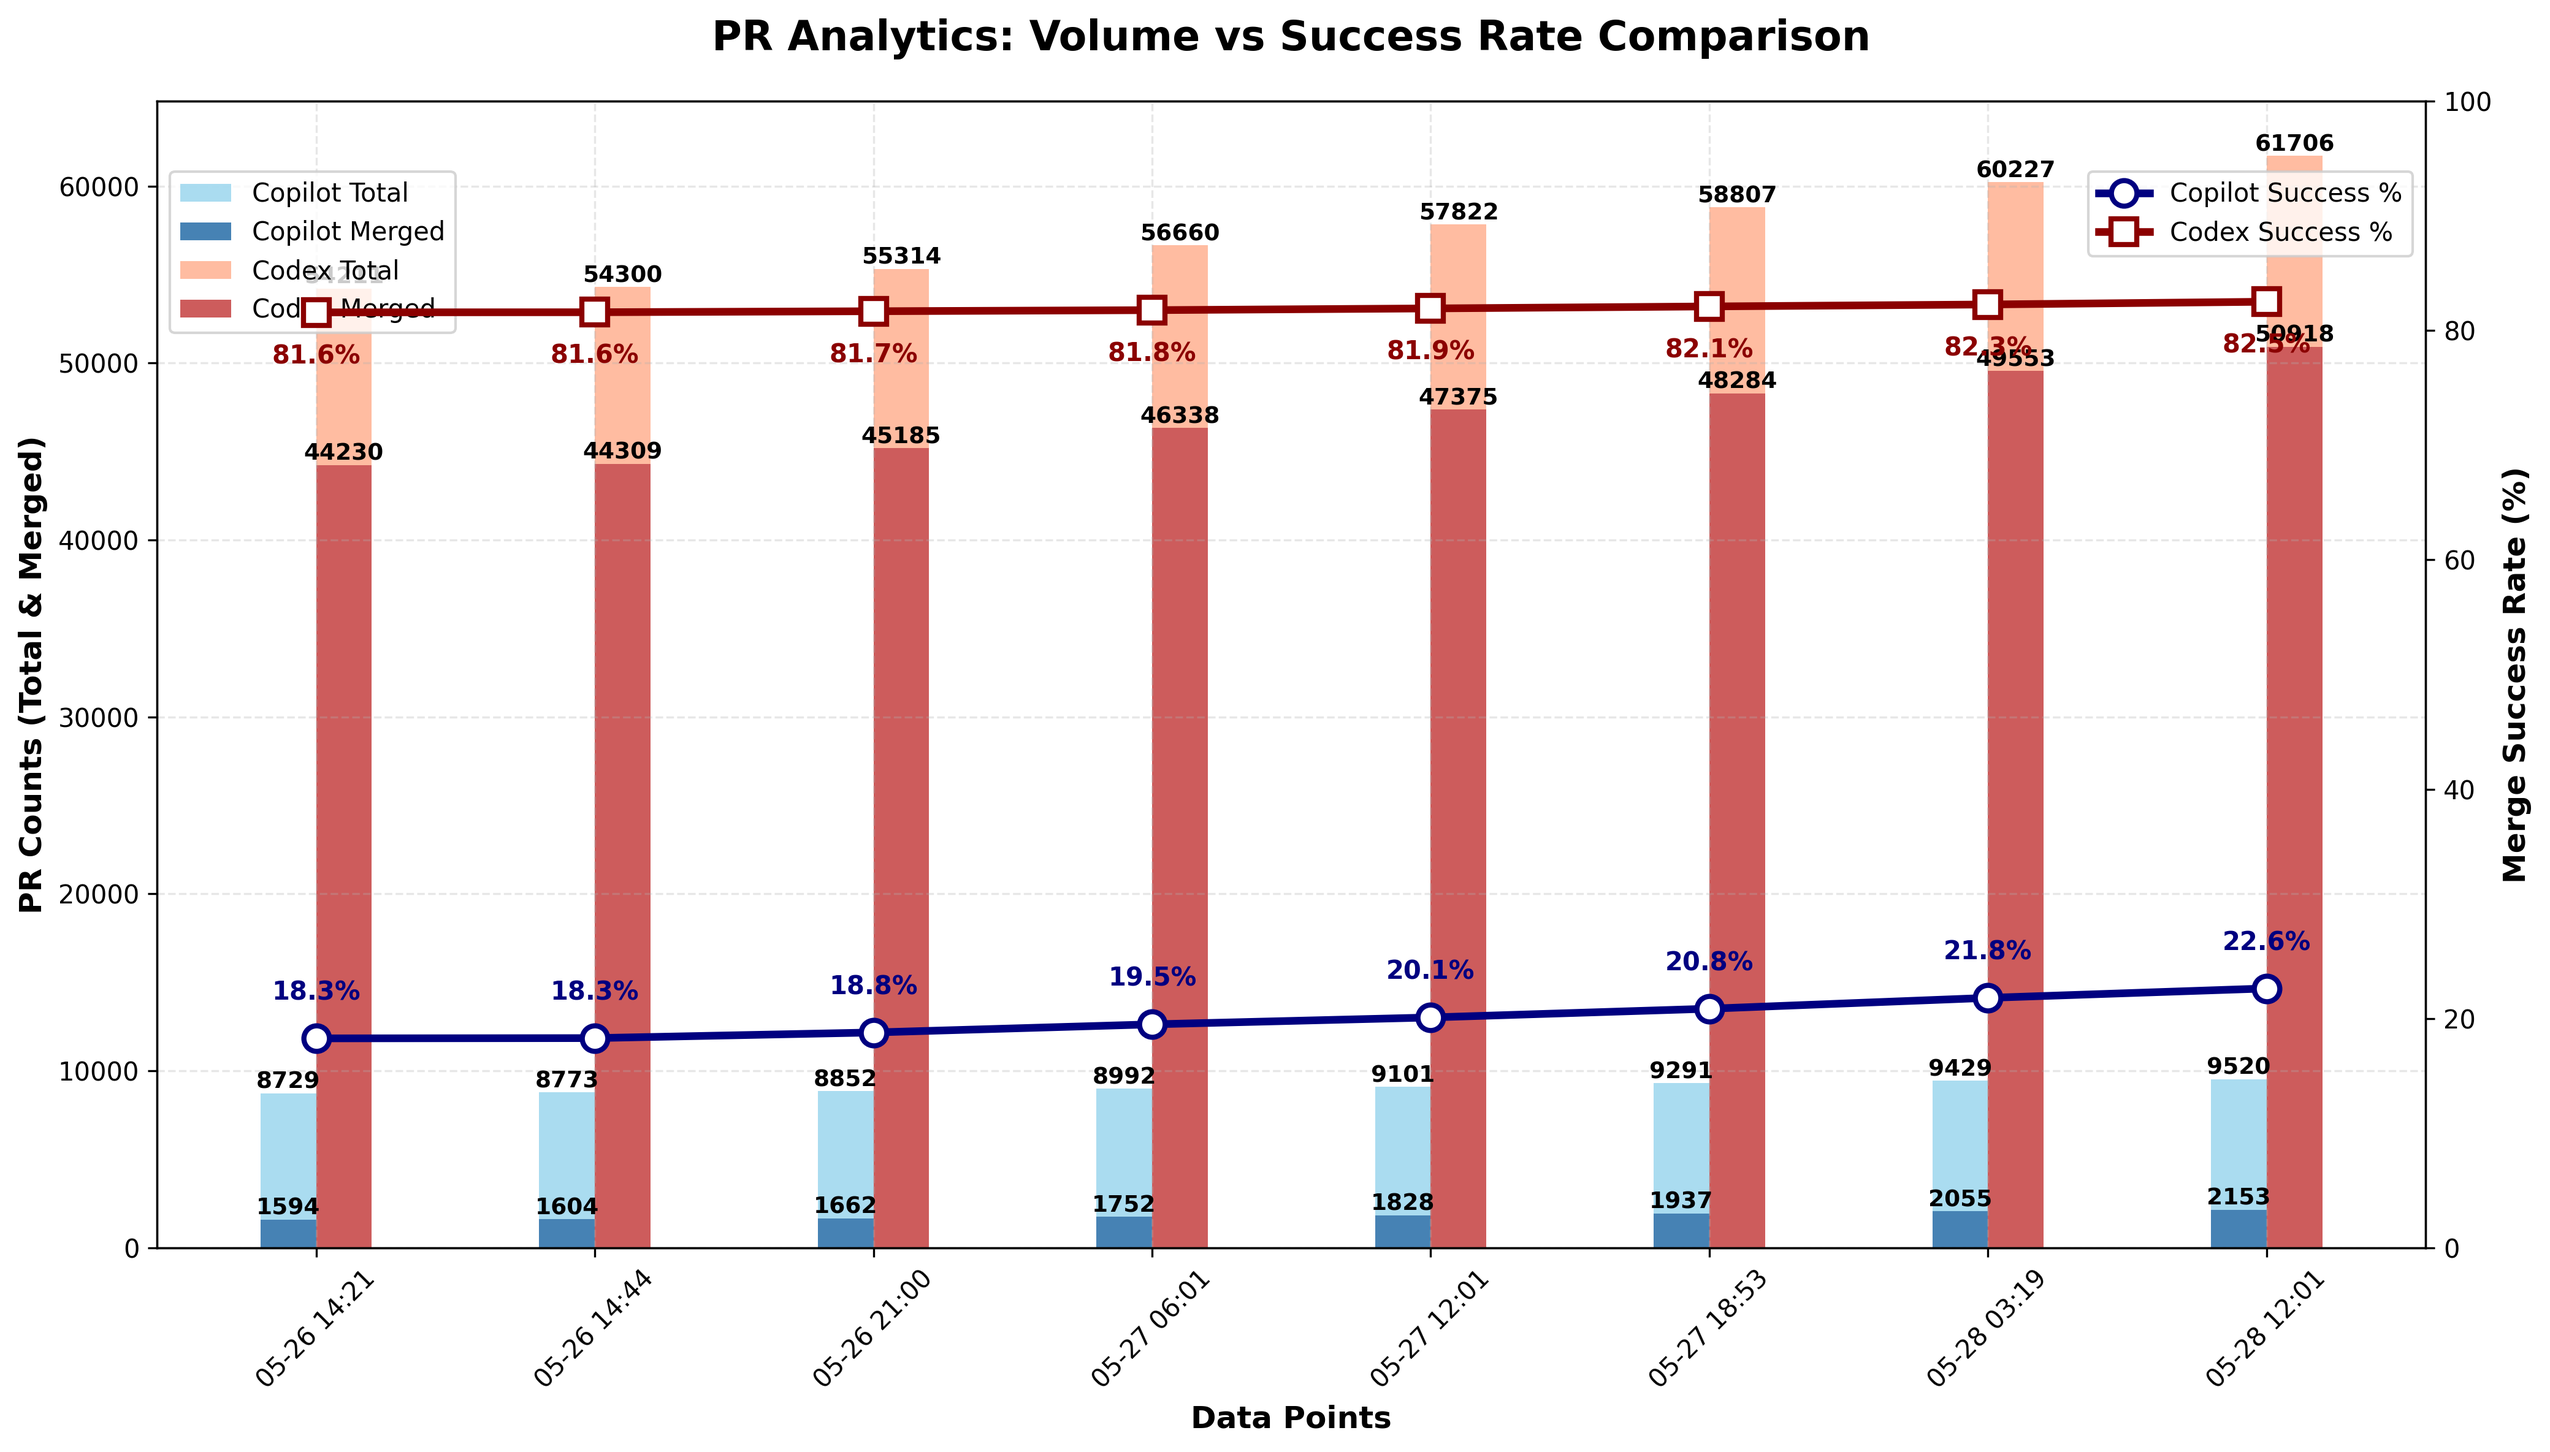
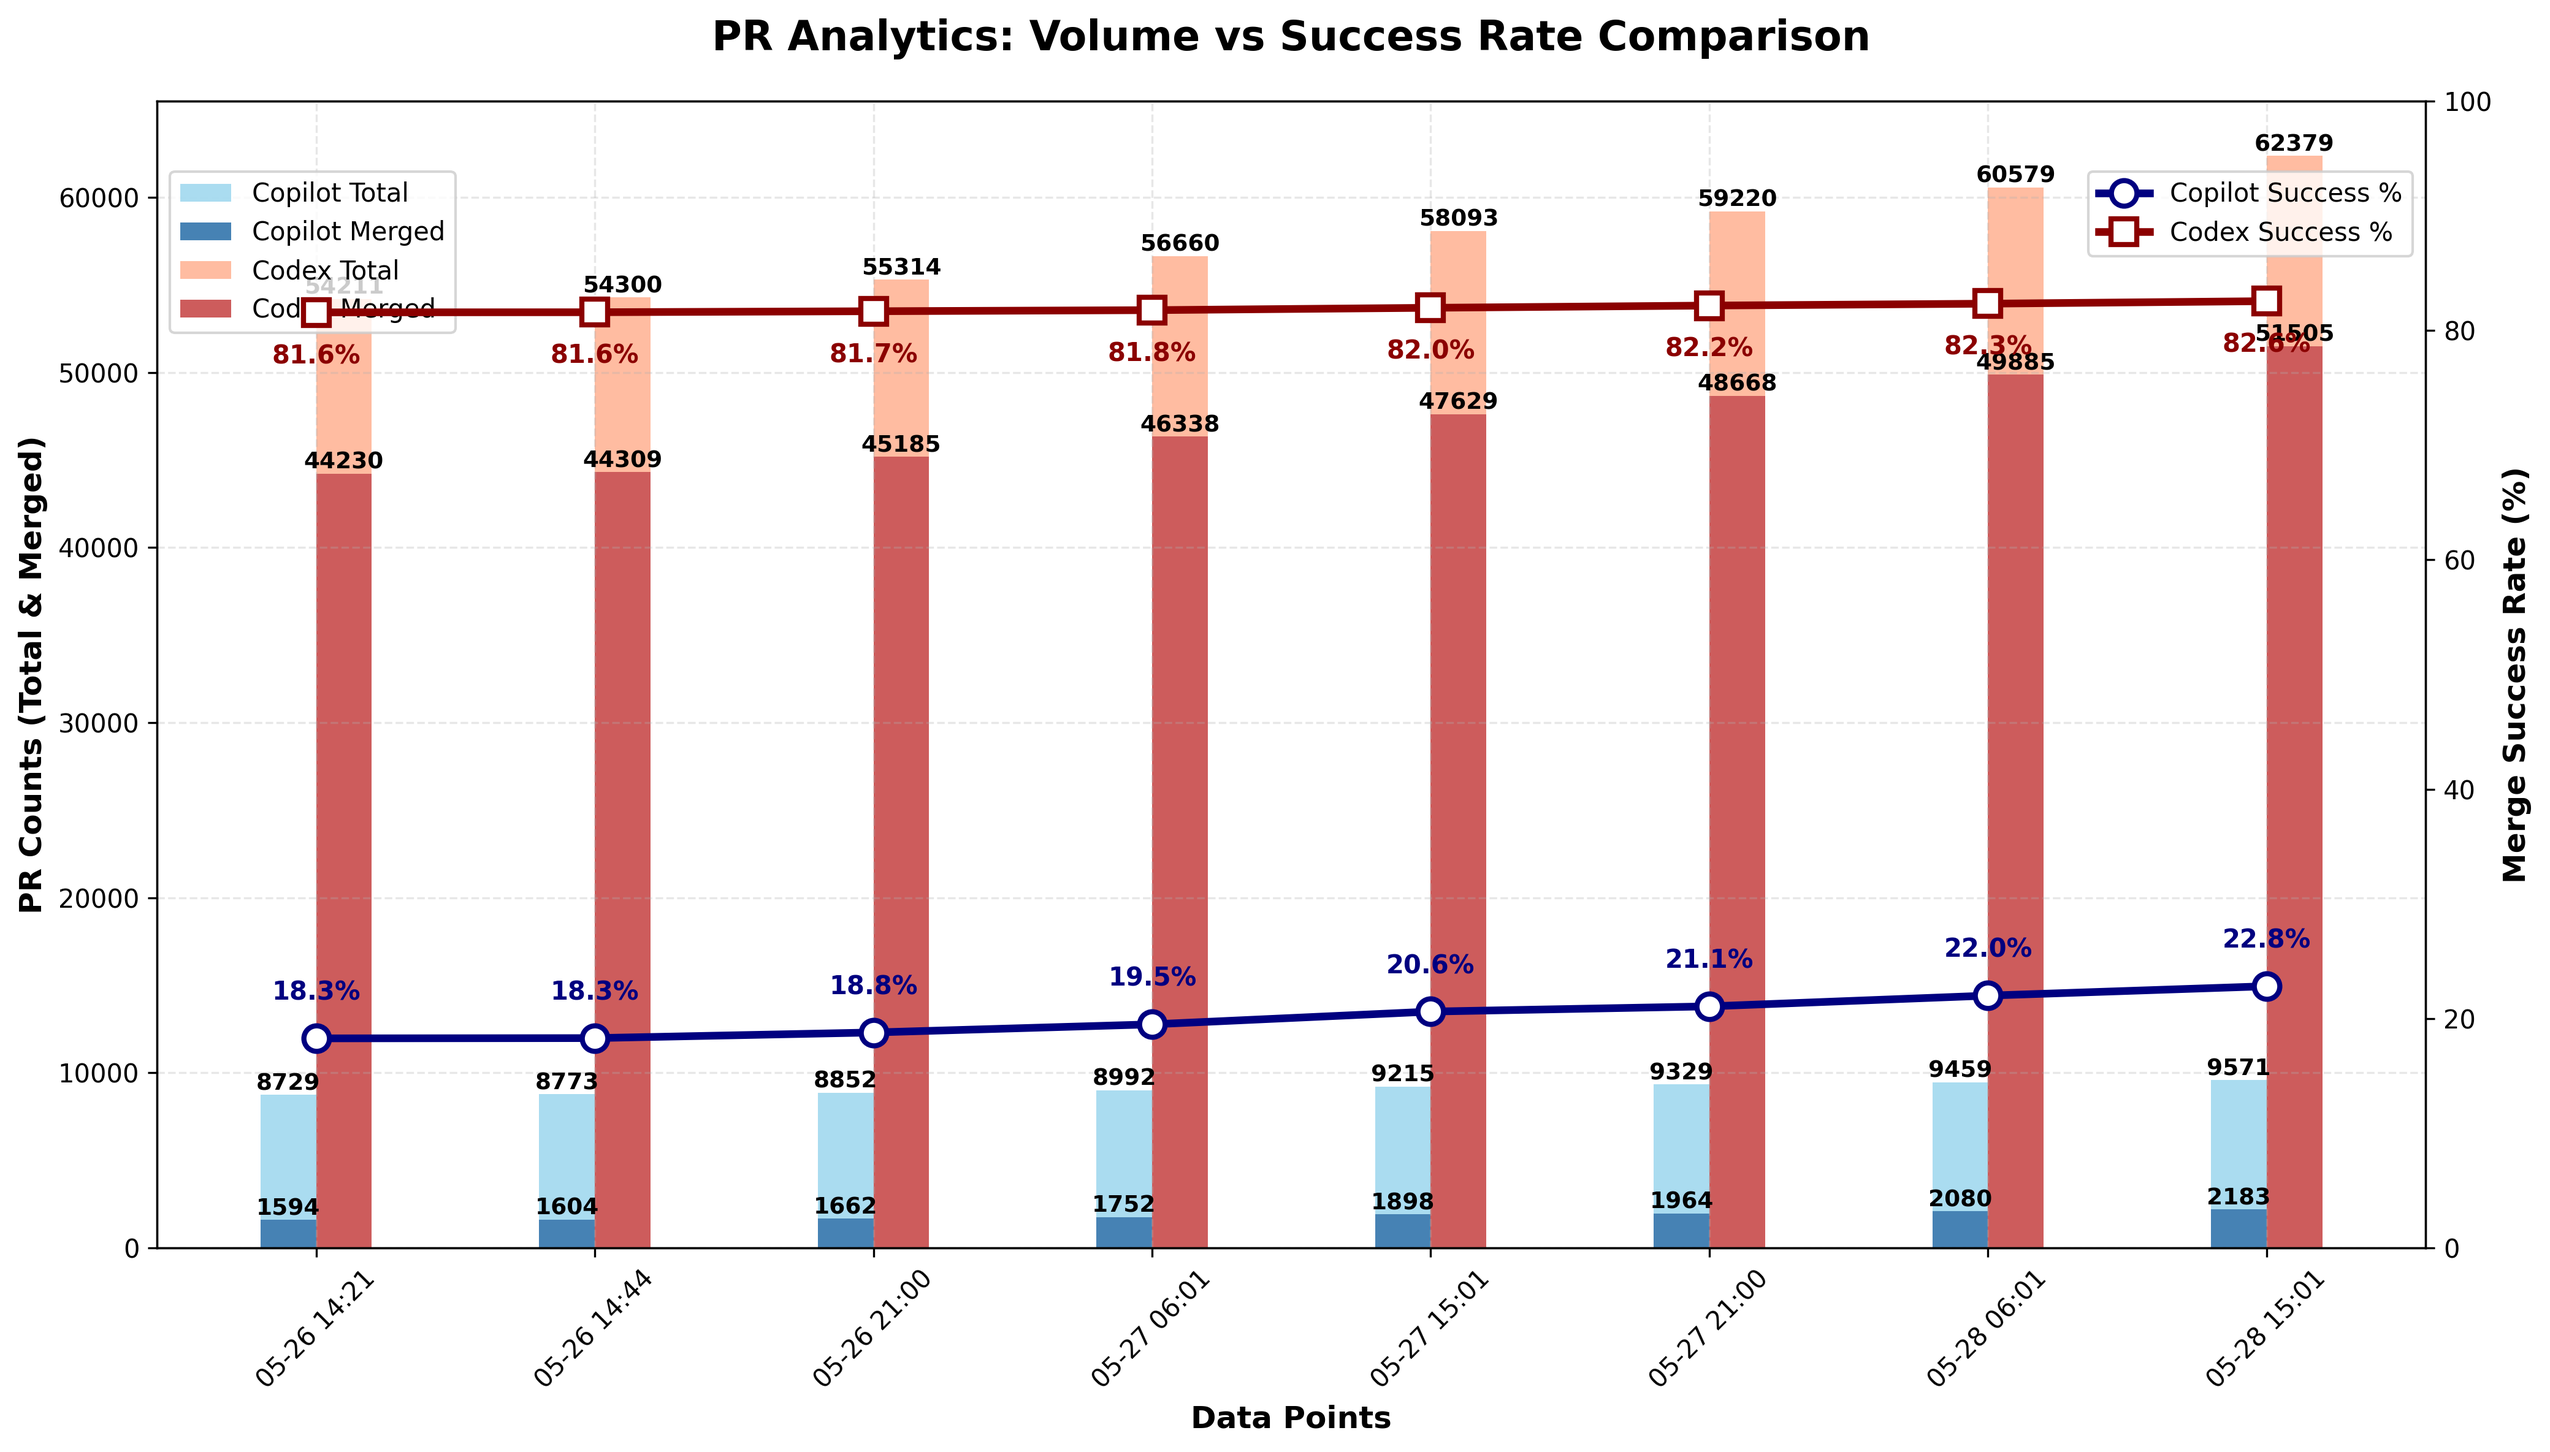
chore: update PR‑approval chart

diff --git a/docs/index.html b/docs/index.html
@@ -44,22 +44,22 @@
                 <tbody>
                     <tr>
                         <td>Copilot</td>
-                        <td>9,520</td>
-                        <td>2,153</td>
-                        <td>22.62%</td>
+                        <td>9,571</td>
+                        <td>2,183</td>
+                        <td>22.81%</td>
                     </tr>
                     <tr>
                         <td>Codex</td>
-                        <td>61,706</td>
-                        <td>50,918</td>
-                        <td>82.52%</td>
+                        <td>62,379</td>
+                        <td>51,505</td>
+                        <td>82.57%</td>
                     </tr>
                 </tbody>
             </table>
         </section>
 
         <footer>
-            <p>Last updated: <span id="last-updated">May 28, 2025 12:01 UTC</span></p>
+            <p>Last updated: <span id="last-updated">May 28, 2025 15:01 UTC</span></p>
             <p><a href="https://github.com/aavetis/ai-pr-watcher">View on GitHub</a></p>
         </footer>
     </div>

diff --git a/README.md b/README.md
@@ -19,5 +19,5 @@ Explore the GitHub search queries used:
 
 | Project | Total PRs | Merged PRs | Merge Rate |
 | ------- | --------- | ---------- | ---------- |
-| Copilot | 9,520 | 2,153 | 22.62% |
-| Codex   | 61,706 | 50,918 | 82.52% |
+| Copilot | 9,571 | 2,183 | 22.81% |
+| Codex   | 62,379 | 51,505 | 82.57% |
